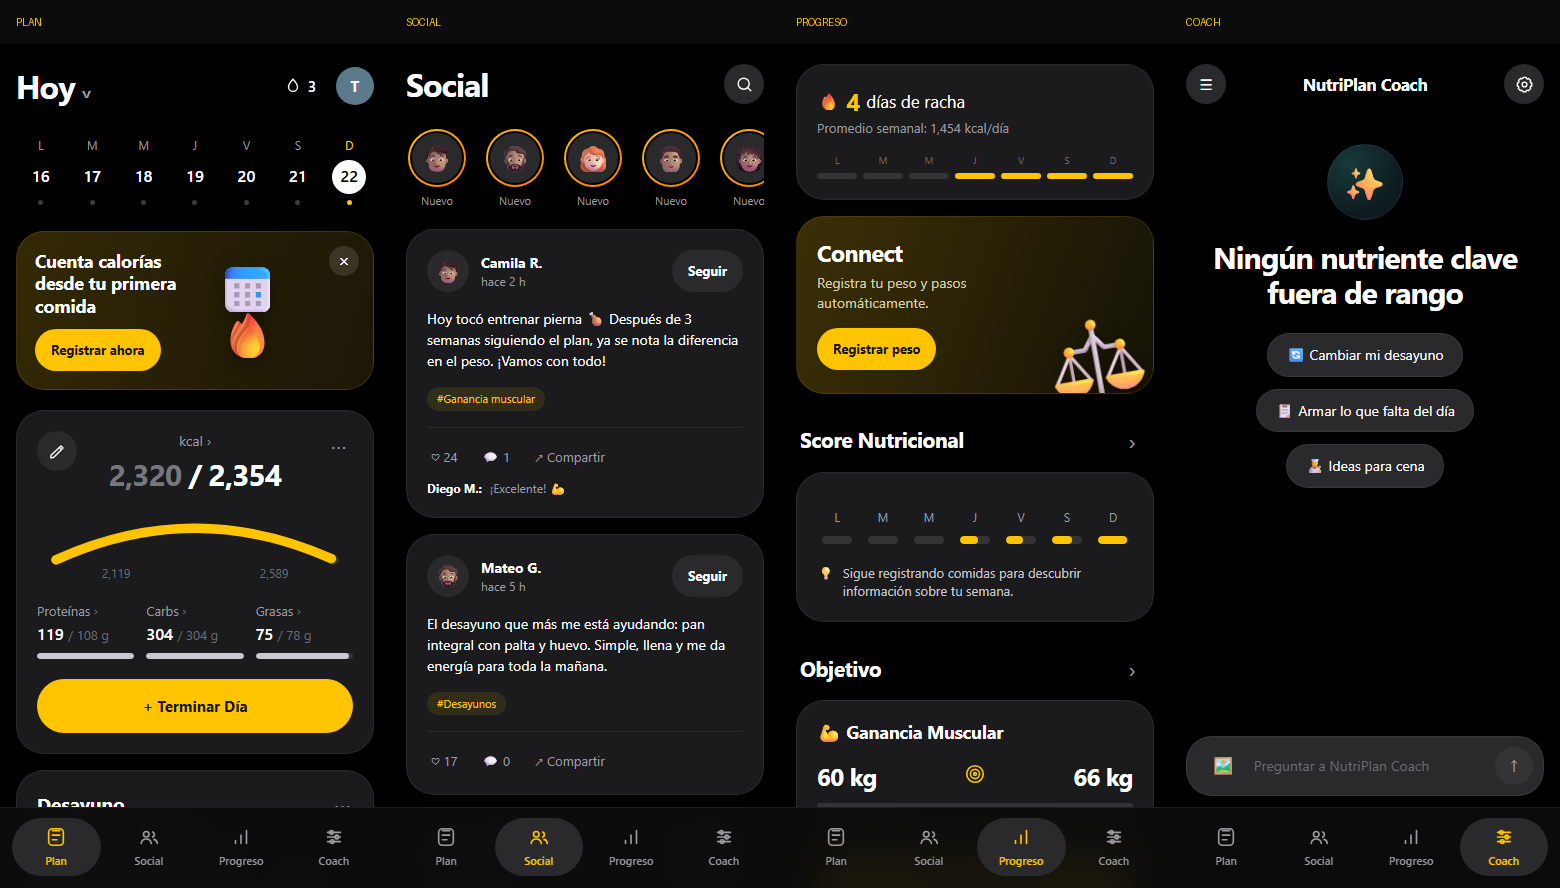
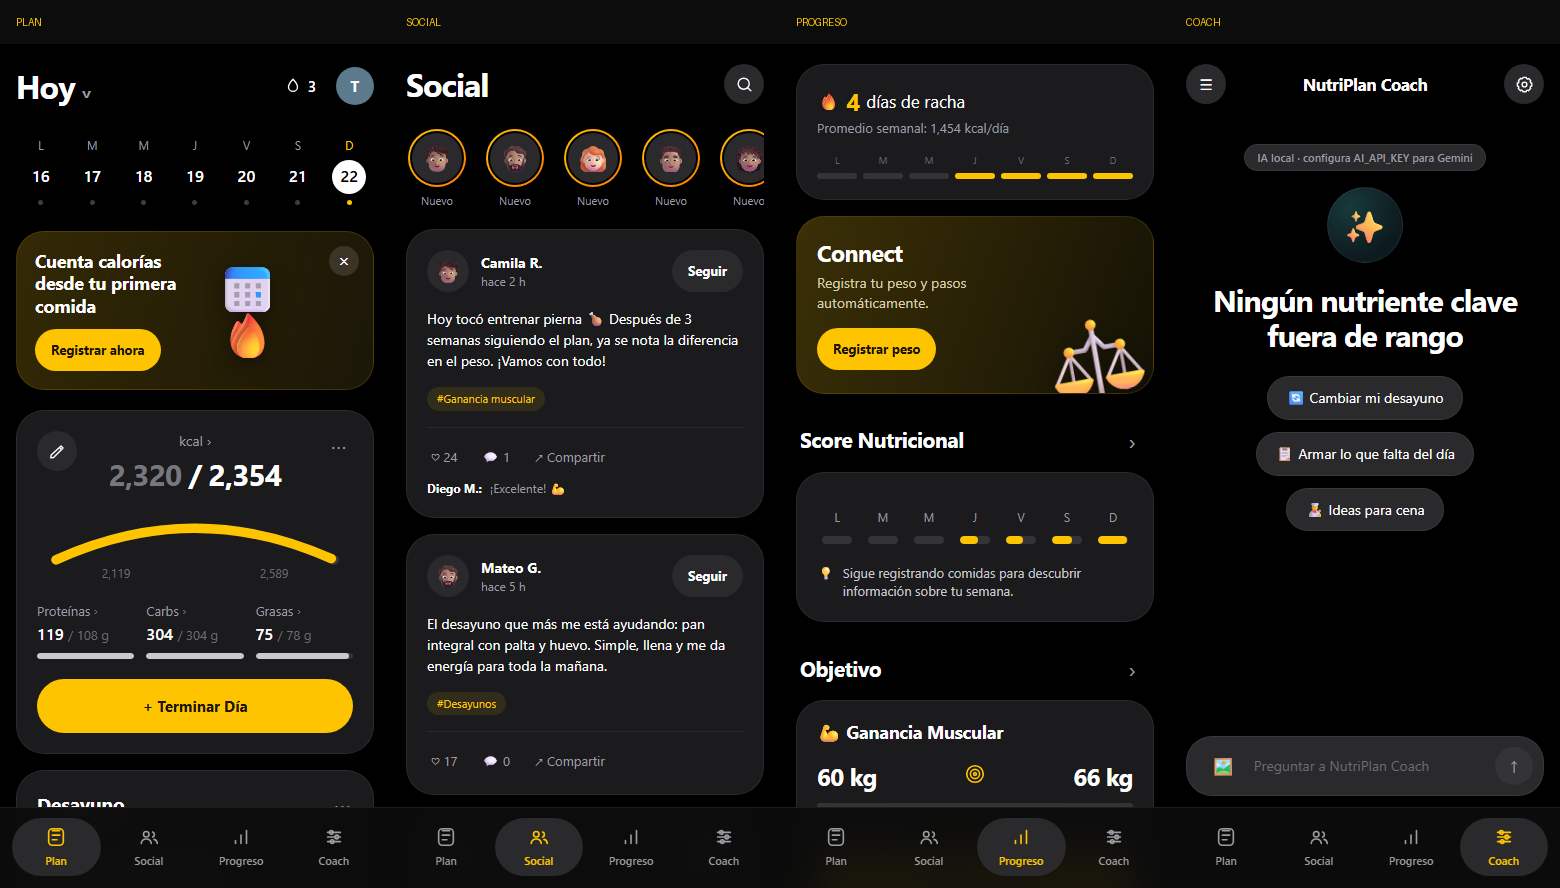
feat: integrar coach Gemini gratuito con fallback local

Changed region(s): [[0.7692, 0.152, 0.9846, 0.6081], [0.7692, 0.8514, 0.8, 0.8818]]

diff --git a/js/app.js b/js/app.js
@@ -16,9 +16,10 @@
   let toastTimer;
   let pendingFoodPhoto = null;
   let lastTab = null;
+  let aiMode = 'local';
 
   function render() {
-    view.innerHTML = UI.render(tab, selectedDate);
+    view.innerHTML = UI.render(tab, selectedDate, aiMode);
     document.querySelectorAll('.tab').forEach((btn) => {
       const active = btn.dataset.tab === tab;
       btn.classList.toggle('active', active);
@@ -118,6 +119,24 @@
     return { text: `Hoy llevas ${UI.fmt(totals.kcal)} de ${UI.fmt(t.kcal)} kcal, ${totals.p}/${t.p} g de proteínas, ${totals.c}/${t.c} g de carbs y ${totals.g}/${t.g} g de grasas. ${remaining.p > 10 ? 'Prioriza proteínas en tu próxima comida.' : 'Tus proteínas están encaminadas; cuida el total calórico.'}` };
   }
 
+  function coachContext() {
+    const today = keyOf(new Date());
+    const day = Store.getDay(today);
+    const meals = {};
+    Object.entries(day.meals).forEach(([meal, items]) => {
+      meals[meal] = items.map((item) => ({ name: Store.foodById(item.id)?.name || item.id, grams: item.grams }));
+    });
+    return {
+      totals: Store.totalsFor(today),
+      targets: Store.state.profile.targets,
+      goal: Store.state.profile.goal,
+      meals,
+      streak: Store.streak(),
+      projection: Store.projection(),
+      foodIds: window.APP_DATA.FOODS.map((food) => food.id)
+    };
+  }
+
   function sendCoach(text) {
     const clean = String(text || '').trim();
     if (!clean) return;
@@ -125,11 +144,19 @@
     render();
     const input = document.getElementById('coach-input');
     if (input) input.value = '';
-    setTimeout(() => {
-      const reply = coachReply(clean);
+    setTimeout(async () => {
+      let reply;
+      try {
+        const ai = await Api.askCoach(clean, coachContext());
+        if (ai.local || !ai.text) throw new Error('IA no configurada');
+        reply = { text: ai.text, suggestion: ai.suggestion || null };
+        aiMode = 'gemini';
+      } catch (error) {
+        reply = coachReply(clean);
+      }
       Store.addChat('coach', reply.text, reply.suggestion);
       render();
-    }, 550);
+    }, 450);
   }
 
   function filterFoods(query) {
@@ -534,6 +561,12 @@
     }
     if (!Store.state.profile.onboarded) openModal(UI.onboarding());
   });
+
+  if (globalThis.Api) {
+    Api.health().then((health) => {
+      if (health.ai) { aiMode = 'gemini'; render(); }
+    }).catch(() => {});
+  }
 
   if ('serviceWorker' in navigator) {
     window.addEventListener('load', () => {

diff --git a/js/ui.js b/js/ui.js
@@ -306,8 +306,11 @@
     return 'Ningún nutriente clave fuera de rango';
   }
 
-  function renderCoach() {
+  function renderCoach(aiMode) {
     const chat = Store.state.chat.map((msg, index) => `<div class="bubble ${msg.role}">${esc(msg.text)}${msg.suggestion ? `<button class="suggestion-btn" type="button" data-action="coach-apply" data-index="${index}">✓ ${esc(msg.suggestion.label)}</button>` : ''}</div>`).join('');
+    const badge = aiMode === 'gemini'
+      ? '<span class="ai-badge">✨ IA activa (Gemini free)</span>'
+      : '<span class="ai-badge muted-badge">IA local · configura AI_API_KEY para Gemini</span>';
     return `
       <div class="coach-view">
         <div class="coach-top">
@@ -315,6 +318,7 @@
           <h2>NutriPlan Coach</h2>
           <button class="btn-icon" type="button" data-action="settings" aria-label="Ajustes">${ICONS.settings}</button>
         </div>
+        <div class="center" style="margin-bottom:16px">${badge}</div>
         <div class="coach-hero">
           <div class="spark" aria-hidden="true">✨</div>
           <h1>${esc(coachHeadline())}</h1>
@@ -333,11 +337,11 @@
       </div>`;
   }
 
-  function render(tab, selectedKey) {
+  function render(tab, selectedKey, aiMode) {
     if (tab === 'plan') return renderPlan(selectedKey);
     if (tab === 'progreso') return renderProgreso();
     if (tab === 'social') return renderSocial();
-    return renderCoach();
+    return renderCoach(aiMode);
   }
 
   /* ---------------- Modales ---------------- */

diff --git a/css/styles.css b/css/styles.css
@@ -439,6 +439,8 @@ h3 { font-size: 18px; line-height: 1.25; letter-spacing: -0.01em; font-weight: 7
 
 /* ---------- Coach ---------- */
 .coach-view { padding-bottom: 210px; }
+.ai-badge { display: inline-block; padding: 5px 12px; border-radius: 99px; font-size: 11px; font-weight: 600; background: rgba(255,196,0,.12); color: var(--accent); border: 1px solid rgba(255,196,0,.2); }
+.ai-badge.muted-badge { background: var(--surface-2); color: var(--muted); border-color: var(--border); font-weight: 500; }
 .coach-top { display: flex; align-items: center; justify-content: space-between; margin-bottom: 40px; }
 .coach-top h2 { font-size: 17px; }
 .coach-hero { text-align: center; padding: 0 12px; }

diff --git a/server/index.js b/server/index.js
@@ -137,7 +137,7 @@ const server = http.createServer(async (req, res) => {
     try {
       const data = await body(req);
       if (!data.message || typeof data.message !== 'string') return json(res, 400, { error: 'Falta el mensaje' });
-      if (!AI_KEY) return json(res, 501, { error: 'IA no configurada', local: true });
+      if (!AI_KEY) return json(res, 200, { error: 'IA no configurada', local: true });
       const reply = await askAI(data.message, data.context);
       return json(res, 200, reply);
     } catch (error) {

diff --git a/server/README.md b/server/README.md
@@ -1,0 +1,49 @@
+# Backend de NutriPlan
+
+Node puro (sin dependencias). Sirve la PWA y expone la API en `/api`.
+
+## Arrancar
+
+```bash
+npm start
+# o, en otro puerto:
+PORT=3001 npm start
+```
+
+Abre `http://localhost:3000`. Si `NUTRIPLAN_CONFIG.apiUrl` está vacío, la PWA usa este mismo origen.
+
+## Coach con IA gratuita
+
+El proveedor es **Gemini Developer API** (tarifa Free, sin cargo). Para activarlo:
+
+1. Crea una clave gratis en https://aistudio.google.com/api-keys
+2. Configura variables de entorno:
+
+```bash
+AI_API_KEY=tu_clave_de_google
+AI_MODEL=gemini-3.5-flash-lite   # opcional; es el modelo usado por defecto
+npm start
+```
+
+Sin clave, `/api/coach` responde 501 y la app usa el coach local por reglas. La clave **nunca** se envía al navegador: solo vive en el backend.
+
+## Persistencia
+
+Los datos por código de sincronización se guardan en `server/data/store.json` (ignorado por git). El archivo se crea automáticamente.
+
+## Endpoints
+
+| Método | Ruta | Descripción |
+|---|---|---|
+| GET | `/api/health` | Estado del server y de la IA |
+| GET | `/api/state/:code` | Obtener estado (o `{state:null}`) |
+| PUT | `/api/state/:code` | Guardar estado |
+| POST | `/api/coach` | `{message, context}` → `{text, suggestion}` |
+
+## Despliegue
+
+Cualquier host de Node (Render, Railway, Fly.io) sirve este repo con `npm start` y el puerto de `PORT`. Para la versión estática en GitHub Pages, pon la URL del backend en `js/config.js`:
+
+```js
+window.NUTRIPLAN_CONFIG = { apiUrl: 'https://tu-backend.onrender.com' };
+```
